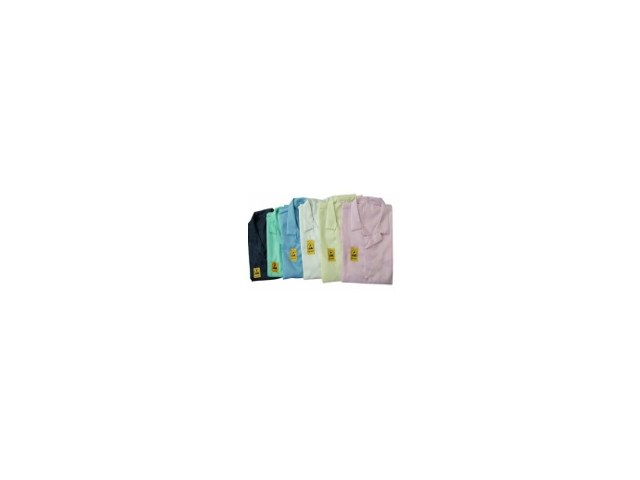
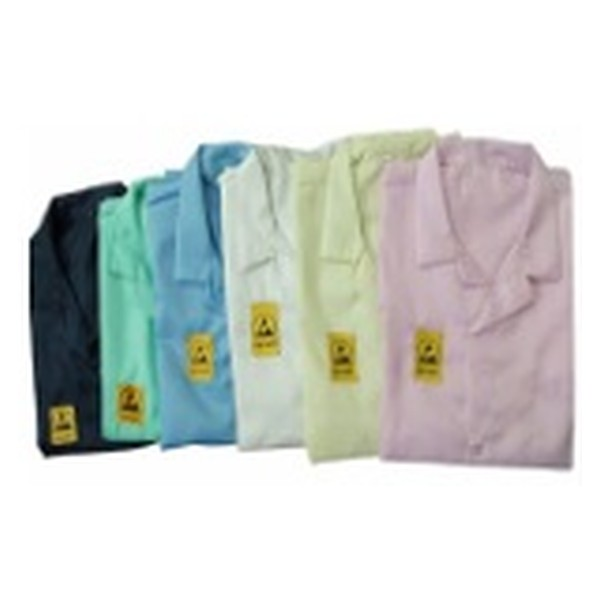
Enlarge product images to fill square frames

diff --git a/index.html.html b/index.html.html
@@ -51,10 +51,10 @@
       </dl>
     </div>
     <div class="hero-visual reveal" aria-label="Product examples">
-      <figure class="hero-photo"><img src="assets/products/photos/antistatic-pvc-mat.jpg" alt="Antistatic PVC mat on a workbench" width="600" height="600"><figcaption>ESD Mats &amp; Flooring</figcaption></figure>
-      <figure class="hero-photo"><img src="assets/products/photos/esd-chair.jpg" alt="ESD chair for static-controlled work zones" width="600" height="600"><figcaption>ESD Furniture</figcaption></figure>
-      <figure class="hero-photo"><img src="assets/products/photos/conductive-super-bins.jpg" alt="Normal bins for component storage" width="600" height="600"><figcaption>ESD Storage</figcaption></figure>
-      <figure class="hero-photo"><img src="assets/products/photos/surface-resistivity-meter.jpg" alt="Surface resistivity meter for ESD verification" width="600" height="600"><figcaption>Testing Equipment</figcaption></figure>
+      <figure class="hero-photo"><img src="assets/products/photos/antistatic-pvc-mat.jpg" alt="Antistatic PVC mat on a workbench" width="560" height="420"><figcaption>ESD Mats &amp; Flooring</figcaption></figure>
+      <figure class="hero-photo"><img src="assets/products/photos/esd-chair.jpg" alt="ESD chair for static-controlled work zones" width="560" height="420"><figcaption>ESD Furniture</figcaption></figure>
+      <figure class="hero-photo"><img src="assets/products/photos/conductive-super-bins.jpg" alt="Normal bins for component storage" width="560" height="420"><figcaption>ESD Storage</figcaption></figure>
+      <figure class="hero-photo"><img src="assets/products/photos/surface-resistivity-meter.jpg" alt="Surface resistivity meter for ESD verification" width="560" height="420"><figcaption>Testing Equipment</figcaption></figure>
     </div>
   </div>
 </section>
@@ -98,7 +98,7 @@
     <div class="product-grid">
 
       <article class="product-card" data-category="mats" data-name="antistatic pvc mat">
-        <div class="product-image"><img src="assets/products/photos/antistatic-pvc-mat.jpg" alt="Antistatic PVC mat for workbench protection" width="600" height="600" loading="lazy"></div>
+        <div class="product-image"><img src="assets/products/photos/antistatic-pvc-mat.jpg" alt="Antistatic PVC mat for workbench protection" width="560" height="420" loading="lazy"></div>
         <div class="product-info">
           <small class="product-cat">Mats &amp; Flooring</small>
           <h3>Antistatic PVC Mat</h3>
@@ -116,7 +116,7 @@
       </article>
 
       <article class="product-card" data-category="protection" data-name="esd wrist strap">
-        <div class="product-image"><img src="assets/products/photos/esd-wrist-strap.jpg" alt="ESD wrist strap with coiled grounding cord" width="600" height="600" loading="lazy"></div>
+        <div class="product-image"><img src="assets/products/photos/esd-wrist-strap.jpg" alt="ESD wrist strap with coiled grounding cord" width="560" height="420" loading="lazy"></div>
         <div class="product-info">
           <small class="product-cat">ESD Protection</small>
           <h3>ESD Wrist Strap</h3>
@@ -134,7 +134,7 @@
       </article>
 
       <article class="product-card" data-category="apparel" data-name="antistatic gloves">
-        <div class="product-image"><img src="assets/products/photos/antistatic-gloves.jpg" alt="Antistatic gloves for component handling" width="600" height="600" loading="lazy"></div>
+        <div class="product-image"><img src="assets/products/photos/antistatic-gloves.jpg" alt="Antistatic gloves for component handling" width="560" height="420" loading="lazy"></div>
         <div class="product-info">
           <small class="product-cat">ESD Apparel</small>
           <h3>Antistatic Gloves</h3>
@@ -152,7 +152,7 @@
       </article>
 
       <article class="product-card" data-category="furniture" data-name="esd chair">
-        <div class="product-image"><img src="assets/products/photos/esd-chair.jpg" alt="ESD chair for static-controlled work zones" width="600" height="600" loading="lazy"></div>
+        <div class="product-image"><img src="assets/products/photos/esd-chair.jpg" alt="ESD chair for static-controlled work zones" width="560" height="420" loading="lazy"></div>
         <div class="product-info">
           <small class="product-cat">ESD Furniture</small>
           <h3>ESD Chair</h3>
@@ -170,7 +170,7 @@
       </article>
 
       <article class="product-card" data-category="mats" data-name="sticky mat">
-        <div class="product-image"><img src="assets/products/photos/sticky-mat.jpg" alt="Sticky mat for controlled-area entrances" width="600" height="600" loading="lazy"></div>
+        <div class="product-image"><img src="assets/products/photos/sticky-mat.jpg" alt="Sticky mat for controlled-area entrances" width="560" height="420" loading="lazy"></div>
         <div class="product-info">
           <small class="product-cat">Mats &amp; Flooring</small>
           <h3>Sticky Mat</h3>
@@ -188,7 +188,7 @@
       </article>
 
       <article class="product-card" data-category="apparel" data-name="antistatic apparel">
-        <div class="product-image"><img src="assets/products/photos/antistatic-apparel.jpg" alt="Antistatic apparel for ESD-sensitive production areas" width="600" height="600" loading="lazy"></div>
+        <div class="product-image"><img src="assets/products/photos/antistatic-apparel.jpg" alt="Antistatic apparel for ESD-sensitive production areas" width="560" height="420" loading="lazy"></div>
         <div class="product-info">
           <small class="product-cat">ESD Apparel</small>
           <h3>Antistatic Apparel</h3>
@@ -206,7 +206,7 @@
       </article>
 
       <article class="product-card" data-category="apparel" data-name="antistatic cap">
-        <div class="product-image"><img src="assets/products/photos/antistatic-cap.jpg" alt="Antistatic cap for electronics production areas" width="600" height="600" loading="lazy"></div>
+        <div class="product-image"><img src="assets/products/photos/antistatic-cap.jpg" alt="Antistatic cap for electronics production areas" width="560" height="420" loading="lazy"></div>
         <div class="product-info">
           <small class="product-cat">ESD Apparel</small>
           <h3>Antistatic Cap</h3>
@@ -224,7 +224,7 @@
       </article>
 
       <article class="product-card" data-category="protection" data-name="wrist bands">
-        <div class="product-image"><img src="assets/products/photos/wrist-bands.jpg" alt="ESD wrist bands for workstation grounding" width="600" height="600" loading="lazy"></div>
+        <div class="product-image"><img src="assets/products/photos/wrist-bands.jpg" alt="ESD wrist bands for workstation grounding" width="560" height="420" loading="lazy"></div>
         <div class="product-info">
           <small class="product-cat">ESD Protection</small>
           <h3>Wrist Bands</h3>
@@ -242,7 +242,7 @@
       </article>
 
       <article class="product-card" data-category="apparel" data-name="antistatic pu gloves">
-        <div class="product-image"><img src="assets/products/photos/antistatic-pu-gloves.jpg" alt="Antistatic PU gloves for delicate component work" width="600" height="600" loading="lazy"></div>
+        <div class="product-image"><img src="assets/products/photos/antistatic-pu-gloves.jpg" alt="Antistatic PU gloves for delicate component work" width="560" height="420" loading="lazy"></div>
         <div class="product-info">
           <small class="product-cat">ESD Apparel</small>
           <h3>Antistatic PU Gloves</h3>
@@ -260,7 +260,7 @@
       </article>
 
       <article class="product-card" data-category="testing" data-name="surface resistivity meter">
-        <div class="product-image"><img src="assets/products/photos/surface-resistivity-meter.jpg" alt="Surface resistivity meter with test probes" width="600" height="600" loading="lazy"></div>
+        <div class="product-image"><img src="assets/products/photos/surface-resistivity-meter.jpg" alt="Surface resistivity meter with test probes" width="560" height="420" loading="lazy"></div>
         <div class="product-info">
           <small class="product-cat">Testing Equipment</small>
           <h3>Surface Resistivity Meter</h3>
@@ -278,7 +278,7 @@
       </article>
 
       <article class="product-card" data-category="testing" data-name="wristband footwear tester">
-        <div class="product-image"><img src="assets/products/photos/wristband-footwear-tester.jpg" alt="Wristband and footwear tester for operator grounding" width="600" height="600" loading="lazy"></div>
+        <div class="product-image"><img src="assets/products/photos/wristband-footwear-tester.jpg" alt="Wristband and footwear tester for operator grounding" width="560" height="420" loading="lazy"></div>
         <div class="product-info">
           <small class="product-cat">Testing Equipment</small>
           <h3>Wristband &amp; Footwear Tester</h3>
@@ -296,7 +296,7 @@
       </article>
 
       <article class="product-card" data-category="packaging" data-name="antistatic bubble roll">
-        <div class="product-image"><img src="assets/products/photos/antistatic-bubble-roll.jpg" alt="Antistatic bubble roll for ESD-safe packaging" width="600" height="600" loading="lazy"></div>
+        <div class="product-image"><img src="assets/products/photos/antistatic-bubble-roll.jpg" alt="Antistatic bubble roll for ESD-safe packaging" width="560" height="420" loading="lazy"></div>
         <div class="product-info">
           <small class="product-cat">Packaging &amp; Consumables</small>
           <h3>Antistatic Bubble Roll</h3>
@@ -314,7 +314,7 @@
       </article>
 
       <article class="product-card" data-category="protection" data-name="touch me pad">
-        <div class="product-image"><img src="assets/products/photos/touch-me-pad.jpg" alt="Touch me pad for operator static discharge" width="600" height="600" loading="lazy"></div>
+        <div class="product-image"><img src="assets/products/photos/touch-me-pad.jpg" alt="Touch me pad for operator static discharge" width="560" height="420" loading="lazy"></div>
         <div class="product-info">
           <small class="product-cat">ESD Protection</small>
           <h3>Touch Me Pad</h3>
@@ -332,7 +332,7 @@
       </article>
 
       <article class="product-card" data-category="mats" data-name="insulation mat">
-        <div class="product-image"><img src="assets/products/photos/insulation-mat.jpg" alt="Insulation mat for defined industrial work areas" width="600" height="600" loading="lazy"></div>
+        <div class="product-image"><img src="assets/products/photos/insulation-mat.jpg" alt="Insulation mat for defined industrial work areas" width="560" height="420" loading="lazy"></div>
         <div class="product-info">
           <small class="product-cat">Mats &amp; Flooring</small>
           <h3>Insulation Mat</h3>
@@ -350,7 +350,7 @@
       </article>
 
       <article class="product-card" data-category="mats" data-name="epoxy flooring">
-        <div class="product-image"><img src="assets/products/photos/epoxy-flooring.jpg" alt="ESD epoxy flooring installed on a factory floor" width="600" height="600" loading="lazy"></div>
+        <div class="product-image"><img src="assets/products/epoxy-flooring.svg" alt="ESD epoxy flooring illustration" width="560" height="420" loading="lazy"></div>
         <div class="product-info">
           <small class="product-cat">Mats &amp; Flooring</small>
           <h3>Epoxy Flooring</h3>
@@ -368,7 +368,7 @@
       </article>
 
       <article class="product-card" data-category="mats" data-name="esd pvc tiles">
-        <div class="product-image"><img src="assets/products/photos/esd-pvc-tiles.jpg" alt="ESD PVC tiles for static-controlled flooring" width="600" height="600" loading="lazy"></div>
+        <div class="product-image"><img src="assets/products/esd-pvc-tiles.svg" alt="ESD PVC tiles illustration" width="560" height="420" loading="lazy"></div>
         <div class="product-info">
           <small class="product-cat">Mats &amp; Flooring</small>
           <h3>ESD PVC Tiles</h3>
@@ -386,7 +386,7 @@
       </article>
 
       <article class="product-card" data-category="mats" data-name="floor marking tapes">
-        <div class="product-image"><img src="assets/products/photos/floor-marking-tapes.jpg" alt="Floor marking tapes for safety zones" width="600" height="600" loading="lazy"></div>
+        <div class="product-image"><img src="assets/products/floor-marking-tapes.svg" alt="Floor marking tapes illustration" width="560" height="420" loading="lazy"></div>
         <div class="product-info">
           <small class="product-cat">Mats &amp; Flooring</small>
           <h3>Floor Marking Tapes</h3>
@@ -404,7 +404,7 @@
       </article>
 
       <article class="product-card" data-category="protection" data-name="copper tapes">
-        <div class="product-image"><img src="assets/products/photos/copper-tapes.jpg" alt="Conductive copper tape roll" width="600" height="600" loading="lazy"></div>
+        <div class="product-image"><img src="assets/products/copper-tapes.svg" alt="Conductive copper tape roll illustration" width="560" height="420" loading="lazy"></div>
         <div class="product-info">
           <small class="product-cat">ESD Protection</small>
           <h3>Copper Tapes</h3>
@@ -422,7 +422,7 @@
       </article>
 
       <article class="product-card" data-category="storage" data-name="normal bins">
-        <div class="product-image"><img src="assets/products/photos/conductive-super-bins.jpg" alt="Normal bins for component storage" width="600" height="600" loading="lazy"></div>
+        <div class="product-image"><img src="assets/products/photos/conductive-super-bins.jpg" alt="Normal bins for component storage" width="560" height="420" loading="lazy"></div>
         <div class="product-info">
           <small class="product-cat">ESD Storage</small>
           <h3>Normal Bins</h3>
@@ -440,7 +440,7 @@
       </article>
 
       <article class="product-card" data-category="storage" data-name="esd i type rack">
-        <div class="product-image"><img src="assets/products/photos/esd-i-type-rack.jpg" alt="ESD I type rack for component storage" width="600" height="600" loading="lazy"></div>
+        <div class="product-image"><img src="assets/products/photos/esd-i-type-rack.jpg" alt="ESD I type rack for component storage" width="560" height="420" loading="lazy"></div>
         <div class="product-info">
           <small class="product-cat">ESD Storage</small>
           <h3>ESD I Type Rack</h3>
@@ -458,7 +458,7 @@
       </article>
 
       <article class="product-card" data-category="storage" data-name="esd l type rack">
-        <div class="product-image"><img src="assets/products/photos/esd-l-type-rack.jpg" alt="ESD L type rack for ESD-safe storage" width="600" height="600" loading="lazy"></div>
+        <div class="product-image"><img src="assets/products/photos/esd-l-type-rack.jpg" alt="ESD L type rack for ESD-safe storage" width="560" height="420" loading="lazy"></div>
         <div class="product-info">
           <small class="product-cat">ESD Storage</small>
           <h3>ESD L Type Rack</h3>
@@ -476,7 +476,7 @@
       </article>
 
       <article class="product-card" data-category="storage" data-name="esd magazine rack">
-        <div class="product-image"><img src="assets/products/photos/esd-magazine-rack.jpg" alt="ESD magazine rack for electronics production" width="600" height="600" loading="lazy"></div>
+        <div class="product-image"><img src="assets/products/photos/esd-magazine-rack.jpg" alt="ESD magazine rack for electronics production" width="560" height="420" loading="lazy"></div>
         <div class="product-info">
           <small class="product-cat">ESD Storage</small>
           <h3>ESD Magazine Rack</h3>
@@ -494,7 +494,7 @@
       </article>
 
       <article class="product-card" data-category="storage" data-name="smt reel trolley">
-        <div class="product-image"><img src="assets/products/photos/smt-reel-trolley.jpg" alt="SS SMT reel trolley for production workflows" width="600" height="600" loading="lazy"></div>
+        <div class="product-image"><img src="assets/products/photos/smt-reel-trolley.jpg" alt="SS SMT reel trolley for production workflows" width="560" height="420" loading="lazy"></div>
         <div class="product-info">
           <small class="product-cat">ESD Storage</small>
           <h3>SS SMT Reel Trolley</h3>
@@ -512,7 +512,7 @@
       </article>
 
       <article class="product-card" data-category="storage" data-name="antistatic pcb trolley">
-        <div class="product-image"><img src="assets/products/photos/antistatic-pcb-trolley.jpg" alt="Antistatic PCB trolley for board handling" width="600" height="600" loading="lazy"></div>
+        <div class="product-image"><img src="assets/products/photos/antistatic-pcb-trolley.jpg" alt="Antistatic PCB trolley for board handling" width="560" height="420" loading="lazy"></div>
         <div class="product-info">
           <small class="product-cat">ESD Storage</small>
           <h3>Antistatic PCB Trolley</h3>
@@ -530,7 +530,7 @@
       </article>
 
       <article class="product-card" data-category="storage" data-name="conductive pp box">
-        <div class="product-image"><img src="assets/products/photos/conductive-pp-box.jpg" alt="Conductive PP box for ESD-safe component storage" width="600" height="600" loading="lazy"></div>
+        <div class="product-image"><img src="assets/products/photos/conductive-pp-box.jpg" alt="Conductive PP box for ESD-safe component storage" width="560" height="420" loading="lazy"></div>
         <div class="product-info">
           <small class="product-cat">ESD Storage</small>
           <h3>Conductive PP Box</h3>
@@ -548,7 +548,7 @@
       </article>
 
       <article class="product-card" data-category="storage" data-name="antistatic crates">
-        <div class="product-image"><img src="assets/products/photos/antistatic-crates.jpg" alt="Antistatic crates for component storage and movement" width="600" height="600" loading="lazy"></div>
+        <div class="product-image"><img src="assets/products/photos/antistatic-crates.jpg" alt="Antistatic crates for component storage and movement" width="560" height="420" loading="lazy"></div>
         <div class="product-info">
           <small class="product-cat">ESD Storage</small>
           <h3>Antistatic Crates</h3>
@@ -566,7 +566,7 @@
       </article>
 
       <article class="product-card" data-category="storage" data-name="antistatic trays">
-        <div class="product-image"><img src="assets/products/photos/antistatic-trays.jpg" alt="Antistatic trays for organised component handling" width="600" height="600" loading="lazy"></div>
+        <div class="product-image"><img src="assets/products/photos/antistatic-trays.jpg" alt="Antistatic trays for organised component handling" width="560" height="420" loading="lazy"></div>
         <div class="product-info">
           <small class="product-cat">ESD Storage</small>
           <h3>Antistatic Trays</h3>
@@ -584,7 +584,7 @@
       </article>
 
       <article class="product-card" data-category="storage" data-name="esd trolley">
-        <div class="product-image"><img src="assets/products/photos/esd-trolley.jpg" alt="ESD trolley for safe component movement" width="600" height="600" loading="lazy"></div>
+        <div class="product-image"><img src="assets/products/esd-trolley.svg" alt="ESD trolley illustration" width="560" height="420" loading="lazy"></div>
         <div class="product-info">
           <small class="product-cat">ESD Storage</small>
           <h3>ESD Trolley</h3>
@@ -602,7 +602,7 @@
       </article>
 
       <article class="product-card" data-category="furniture" data-name="esd workstation">
-        <div class="product-image"><img src="assets/products/photos/esd-workstation.jpg" alt="ESD workstation for electronics assembly" width="600" height="600" loading="lazy"></div>
+        <div class="product-image"><img src="assets/products/esd-workstation.svg" alt="ESD workstation illustration" width="560" height="420" loading="lazy"></div>
         <div class="product-info">
           <small class="product-cat">ESD Furniture</small>
           <h3>ESD Workstation</h3>

diff --git a/styles.css b/styles.css
@@ -311,7 +311,7 @@ button { font: inherit; }
 
 .hero-photo img {
   width: 100%;
-  aspect-ratio: 4 / 3;
+  aspect-ratio: 1 / 1;
   object-fit: contain;
   background: var(--white);
 }
@@ -470,7 +470,7 @@ button { font: inherit; }
 
 .product-image img {
   width: 100%;
-  aspect-ratio: 4 / 3;
+  aspect-ratio: 1 / 1;
   object-fit: contain;
 }
 
@@ -831,13 +831,13 @@ footer a:hover { color: var(--lime); }
   display: flex;
   align-items: center;
   justify-content: center;
-  padding: 40px;
-  min-height: 380px;
+  padding: 32px;
+  min-height: 420px;
 }
 
 .modal-image img {
   width: 100%;
-  max-height: 340px;
+  max-height: 440px;
   object-fit: contain;
 }
 
